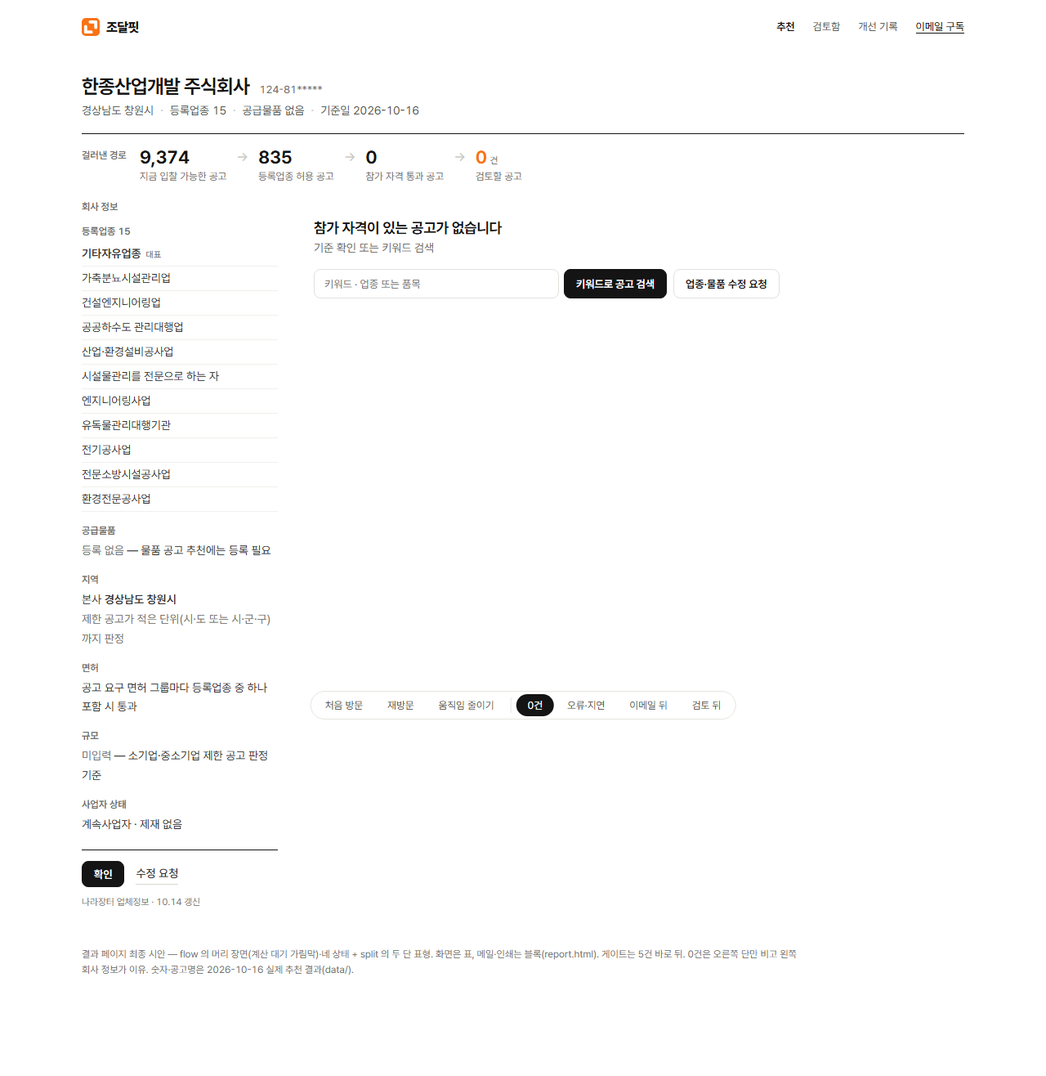
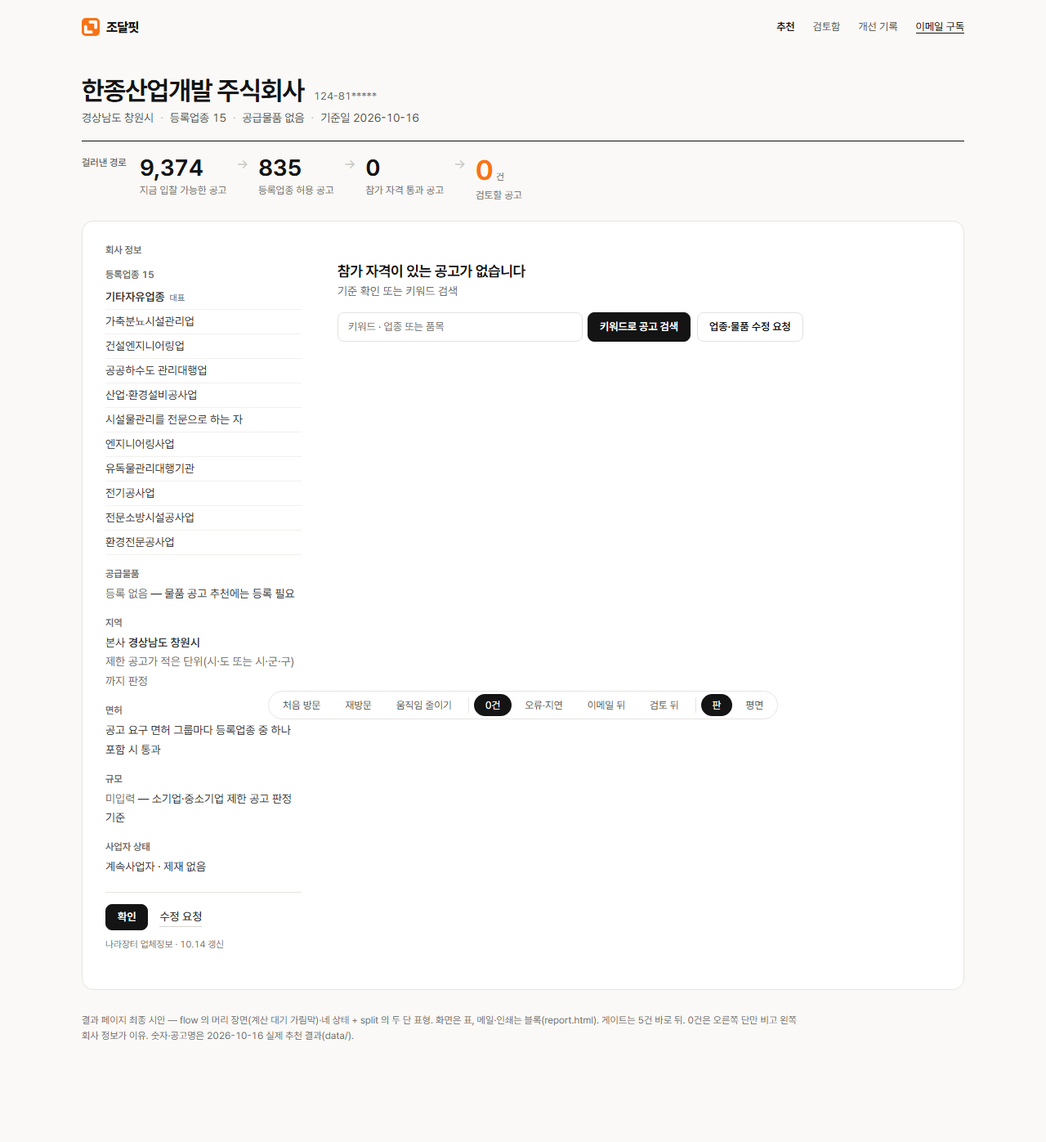
design(results): 판 — 바닥 #faf9f7 + 결과 흰 판, 먹 괘선 하나, 회사 이름 32·경로 숫자 28·12 는 34. 알약 판/평면 비교

diff --git a/docs/design/prototypes/results-final.html b/docs/design/prototypes/results-final.html
@@ -1,4 +1,4 @@
-<!doctype html><html lang="ko"><head><meta charset="utf-8"><meta name="viewport" content="width=device-width,initial-scale=1"><title>조달핏 결과</title><link rel="stylesheet" href="https://cdn.jsdelivr.net/gh/orioncactus/pretendard@v1.3.9/dist/web/variable/pretendardvariable-dynamic-subset.min.css"><style>
+<!doctype html><html lang="ko" class="v-panel"><head><meta charset="utf-8"><meta name="viewport" content="width=device-width,initial-scale=1"><title>조달핏 결과</title><link rel="stylesheet" href="https://cdn.jsdelivr.net/gh/orioncactus/pretendard@v1.3.9/dist/web/variable/pretendardvariable-dynamic-subset.min.css"><style>
 * { box-sizing:border-box } body { margin:0; background:#fff; color:#141414; font-family:"Pretendard Variable",Pretendard,system-ui,sans-serif; font-variant-numeric:tabular-nums; -webkit-font-smoothing:antialiased }
 a { color:inherit; text-decoration:none } .dim { color:#6b6b67 } .mute { color:#8f8f8b } .acc { color:#f97316 }
 .nav { display:flex; align-items:center; justify-content:space-between; padding:22px 0; font-size:13px; color:#55554f } .brand { display:flex; align-items:center; gap:8px; color:#141414; font-weight:700; font-size:14.5px } .brand i { width:7px; height:7px; border-radius:50%; background:#f97316; display:inline-block }
@@ -193,6 +193,14 @@ a { color:inherit; text-decoration:none } .dim { color:#6b6b67 } .mute { color:#
 .tr::before { content:""; position:absolute; left:-16px; top:0; bottom:0; width:2px; background:#f97316; transform:scaleY(0); transform-origin:top; transition:transform .3s cubic-bezier(.3,.7,.2,1) }
 .tr.rvd::before { transform:scaleY(1) }
 @media (prefers-reduced-motion: reduce) { .res, .chain, .tr::before { transition:none !important } }
+/* 판(승우님 "밋밋하다") — 장식이 아니라 바닥과 크기. 따뜻한 회색 바닥 위에 머리·캔버스, 결과는 흰 판 하나. 먹 괘선은 머리 아래 하나만. 회사 이름 32 / 경로 숫자 28 / 마지막 12 는 34 */
+.v-panel, .v-panel body { background:#faf9f7 }
+.v-panel .head h1 { font-size:32px; letter-spacing:-0.035em } .v-panel .chain b { font-size:28px } .v-panel .chain b.acc { font-size:34px } .v-panel .chain .l { font-size:12.5px }
+.v-panel .ttl { background:#faf9f7 }
+.v-panel .res .cols { background:#fff; border:1px solid #e6e4df; border-radius:14px; padding:6px 28px 28px; margin-top:22px }
+.v-panel .side { top:0 } .v-panel .mh, .v-panel .th, .v-panel .gateline, .v-panel .side .act { border-color:#e6e4df }
+.v-panel .err { border-top-color:#e6e4df } .v-panel .ctl { background:#fff }
+@media screen and (max-width:720px){ .v-panel .head h1 { font-size:24px } .v-panel .chain b { font-size:20px } .v-panel .chain b.acc { font-size:24px } .v-panel .res .cols { padding:0 16px 20px; border-radius:12px } .v-panel .tr.rvd::before, .v-panel .tr::before { left:-10px } }
 .gateline { font-size:14.5px; padding:24px 0 } .gateline .dim { font-size:13.5px }
 .zero b { font-size:18px } .zero .dim { font-size:14px } .okline { font-size:14px }
 @media screen and (max-width:720px){ .tr .t { font-size:15px } .tr .sub { font-size:13px } .side { font-size:13.5px } }
@@ -211,7 +219,7 @@ a { color:inherit; text-decoration:none } .dim { color:#6b6b67 } .mute { color:#
   .tr .sub { white-space:normal } .tr .sub .why { display:inline }   /* flow 의 .tr .why{display:none} 은 열용 — 둘째 줄 칩은 보인다 */
   .x, .x.on { padding-left:0 } .rvn { padding-left:0 } .tr.rvd::before { left:-16px }
 }
-</style></head><body><div class="wrap"><div class="nav"><a class="brand" href="#"><svg viewBox="0 0 64 64" width="22" height="22" aria-hidden="true"><rect width="64" height="64" rx="14.08" fill="#f97316"/><path d="M30 14 H50 V34 M14 30 V50 H34" fill="none" stroke="#fff" stroke-width="11" stroke-linecap="round" stroke-linejoin="round"/></svg>조달핏</a><div class="links"><b>추천</b><span>검토함</span><span>개선 기록</span><span class="cta">이메일 구독</span></div></div><div class="head"><h1>한종산업개발 주식회사<small>124-81*****</small></h1><div class="meta"><span>경상남도 창원시</span><span>등록업종 15</span><span>공급물품 없음</span><span>기준일 2026-10-16</span></div></div><div class="stage"><div class="labs"><div class="lab  " data-x="0" style="left:0.000%"><span class="k">지금 입찰 가능한 공고<span class="sub" data-k=" · 마감 90일 이내"> · 마감 90일 이내</span></span><div class="n"><span class="cnt" data-to="9374">0</span><small>건</small></div></div><div class="lab g " data-x="288" style="left:25.714%"><span class="k">등록업종 허용 공고<span class="sub" data-k=" · 전체의 8.9%"> · 전체의 8.9%</span></span><div class="n"><span class="cnt" data-to="835">0</span><small>건</small></div></div><div class="lab g " data-x="576" style="left:51.429%"><span class="k">참가 자격 통과 공고<span class="sub" data-k=" · 면허·지역 45% 통과"> · 면허·지역 45% 통과</span></span><div class="n"><span class="cnt" data-to="372">0</span><small>건</small></div></div><div class="lab g last" data-x="864" style="left:77.143%"><span class="k">검토할 공고<span class="sub" data-k=" · 앞 단계의 3.2%"> · 앞 단계의 3.2%</span></span><div class="n"><span class="cnt" data-to="12">0</span><small>건</small></div></div></div><div class="field"><canvas id="cv" height="392" aria-hidden="true"></canvas><div class="ttl" data-x="272" style="left:1.429%;top:58px;max-width:22.857%">2026년 11월 복대초 및 서원초 학교급식물품(부식) 공동구매 전자입찰 공고</div><div class="ttl" data-x="272" style="left:1.429%;top:108px;max-width:22.857%">2026년 경남 방산 중소기업 생산성향상 지원사업 신규 설비 제작</div><div class="ttl" data-x="272" style="left:1.429%;top:158px;max-width:22.857%">2027학년도 신입생 학교주관 교복 구매 2단계 입찰(규격.가격 분리 동시입찰] 공고</div><div class="ttl" data-x="272" style="left:1.429%;top:208px;max-width:22.857%">2026~2027년 동절기 대비 제설장비(굴착기)임차용역</div><div class="ttl" data-x="272" style="left:1.429%;top:258px;max-width:22.857%">충청북도교육청 청주 방과후돌봄센터 교육용기자재 구매 수의계약 안내공고</div><div class="ttl" data-x="272" style="left:1.429%;top:308px;max-width:22.857%">트리니티팹 화학물질 인허가 취득 용역</div><div class="ttl" data-x="560" style="left:27.143%;top:96px;max-width:22.857%">다솜유 외 2교(다솜초, 다솜중) 신축공사 기본 및 실시설계의 경제성(VE) 검토 용역</div><div class="ttl" data-x="560" style="left:27.143%;top:188px;max-width:22.857%">김 채묘장 전기공사</div><div class="ttl" data-x="560" style="left:27.143%;top:280px;max-width:22.857%">경구고등학교 태정관, 서버실 석면해체제거에 따른 전기 공사 수의견적 제출 안내 공고</div><div class="ttl rsn" data-w="1" data-x="302" style="right:74.286%;top:346px">등록업종 미허용</div><div class="ttl rsn" data-w="2" data-x="590" style="right:48.571%;top:346px">면허·지역 제한 미충족</div><div class="ttl rsn" data-w="3" data-x="878" style="right:22.857%;top:346px">회사와의 유사도 낮음</div></div><div class="chain"><div class="fun"><span class="k">걸러낸 경로</span><div><span class="nl"><b class="">9,374</b></span><span class="l">지금 입찰 가능한 공고</span></div><i>→</i><div><span class="nl"><b class="">835</b></span><span class="l">등록업종 허용 공고</span></div><i>→</i><div><span class="nl"><b class="">372</b></span><span class="l">참가 자격 통과 공고</span></div><i>→</i><div><span class="nl"><b class="acc">12</b><span class=un>건</span></span><span class="l">검토할 공고</span></div></div><div class="tabs"><div><em>공고 12</em><span>사전규격 4</span><span>발주계획 12</span></div><div class="due">이번 주 마감 1건 · 가장 빠른 마감 <span class="d hot">D-4</span> (10.20)</div></div></div></div><div class="err"><span>결과를 불러오지 못했습니다</span><span class="sp"></span><a class="bt" href="#">다시 시도</a></div><div class="res"><div class="cols"><details class="side" open><summary><span class="k">회사 정보 <span class="h o">펼치기</span><span class="h c">접기</span></span></summary><div class="sec"><span class="k">등록업종 15</span><ul><li class="rep">기타자유업종</li><li>가축분뇨시설관리업</li><li>건설엔지니어링업</li><li>공공하수도 관리대행업</li><li>산업·환경설비공사업</li><li>시설물관리를 전문으로 하는 자</li><li>엔지니어링사업</li><li>유독물관리대행기관</li><li>전기공사업</li><li>전문소방시설공사업</li><li>환경전문공사업</li></ul></div><div class="sec"><span class="k">공급물품</span><div class="txt"><span class="dim">등록 없음</span> — 물품 공고 추천에는 등록 필요</div></div><div class="sec"><span class="k">지역</span><div class="txt">본사 <b>경상남도 창원시</b><br><span class="dim">제한 공고가 적은 단위(시·도 또는 시·군·구)까지 판정</span></div></div><div class="sec"><span class="k">면허</span><div class="txt">공고 요구 면허 그룹마다 등록업종 중 하나 포함 시 통과</div></div><div class="sec"><span class="k">규모</span><div class="txt"><span class="dim">미입력</span> — 소기업·중소기업 제한 공고 판정 기준</div></div><div class="sec"><span class="k">사업자 상태</span><div class="txt">계속사업자 · 제재 없음</div></div><div class="act"><a class="bt dark" href="#">확인</a><a class="bt txt" href="#"><u>수정 요청</u></a></div><span class="mute">나라장터 업체정보 · 10.14 갱신</span></details><div class="main"><div class="mh"><span class="k"><b>검토할 공고 12건</b>적합 순</span></div><div class="okline"><b>이메일 등록 완료</b> · 전체 결과 공개</div><div class="zero"><b>참가 자격이 있는 공고가 없습니다</b><span class="dim">기준 확인 또는 키워드 검색</span><div class="acts"><span class="in"><span>키워드 · 업종 또는 품목</span><span class="bt dark">키워드로 공고 검색</span></span><a class="bt" href="#">업종·물품 수정 요청</a></div></div><div class="sheet"><div class="th"><span>#</span><span>공고 · 발주기관 · 근거</span><span class="r">마감</span><span class="r">추정가</span></div><div class="tr" data-no="R26BK01773124"><span class="no">01</span><span><span class="t">송탄정수장 공업용수공급 시설공사(1공구)</span><span class="sub">경기도 평택시 상하수도사업소<span class="why">재출현 기관</span></span></span><span class="r d ">D-13<small>10.29</small></span><span class="r">50.3억</span></div><div class="x on"><div class="xi"><div><span class="k">참가 자격</span><ul><li class="ok">면허 — 제한 없음</li><li class="ok">지역 — 제한 없음</li><li class="todo">규모 — 중소기업 확인서 요구 여부는 문서 조건에서, 회사 규모 미입력</li></ul></div><div><span class="k">추천 근거</span><ul><li>경기도 평택시 상하수도사업소 — 과거 거래 이력 있음</li><li>추정가가 회사 평균 수주가의 1.08배 — 유사한 규모</li><li>공고 내용과 회사 업종 설명 유사도 73%</li></ul></div><div class="acts"><a class="bt dark" href="https://www.g2b.go.kr/link/PNPE027_01/single/?bidPbancNo=R26BK01773124&amp;bidPbancOrd=000">나라장터 원문</a><a class="bt rv" href="#">검토</a></div></div></div><div class="tr" data-no="R26BK01771325"><span class="no">02</span><span><span class="t">중랑물재생센터 제1처리장 관리대행</span><span class="sub">서울특별시 물재생센터 중랑물재생센터<span class="why">업종·물품 일치</span></span></span><span class="r d ">D-40<small>11.25</small></span><span class="r">61.1억</span></div><div class="x "><div class="xi"><div><span class="k">참가 자격</span><ul><li class="ok">면허 — 제한 없음</li><li class="ok">지역 — 제한 없음</li><li class="todo">규모 — 중소기업 확인서 요구 여부는 문서 조건에서, 회사 규모 미입력</li></ul></div><div><span class="k">추천 근거</span><ul><li>추정가가 회사 평균 수주가의 1.31배 — 유사한 규모</li><li>등록업종 표현이 허용업종과 중복 — 000㎥, 10, 공공하수도</li><li>공고 내용과 회사 업종 설명 유사도 74%</li></ul></div><div class="acts"><a class="bt dark" href="https://www.g2b.go.kr/link/PNPE027_01/single/?bidPbancNo=R26BK01771325&amp;bidPbancOrd=001">나라장터 원문</a><a class="bt rv" href="#">검토</a></div></div></div><div class="tr" data-no="R26BK01772889"><span class="no">03</span><span><span class="t">송탄정수장 공업용수공급 시설공사(2공구)</span><span class="sub">경기도 평택시 상하수도사업소<span class="why">재출현 기관</span></span></span><span class="r d ">D-13<small>10.29</small></span><span class="r">76.9억</span></div><div class="x "><div class="xi"><div><span class="k">참가 자격</span><ul><li class="ok">면허 — 제한 없음</li><li class="ok">지역 — 제한 없음</li><li class="todo">규모 — 중소기업 확인서 요구 여부는 문서 조건에서, 회사 규모 미입력</li></ul></div><div><span class="k">추천 근거</span><ul><li>경기도 평택시 상하수도사업소 — 과거 거래 이력 있음</li><li>공고 내용과 회사 업종 설명 유사도 75%</li></ul></div><div class="acts"><a class="bt dark" href="https://www.g2b.go.kr/link/PNPE027_01/single/?bidPbancNo=R26BK01772889&amp;bidPbancOrd=000">나라장터 원문</a><a class="bt rv" href="#">검토</a></div></div></div><div class="tr" data-no="R26BK01751505"><span class="no">04</span><span><span class="t">국가소유(여수 4단계) 공공폐수처리시설 관리대행</span><span class="sub">한국환경공단<span class="why">업종·물품 일치</span></span></span><span class="r d ">D-26<small>11.11</small></span><span class="r">41.2억</span></div><div class="x "><div class="xi"><div><span class="k">참가 자격</span><ul><li class="ok">면허 — 충족</li><li class="ok">지역 — 제한 없음</li><li class="todo">규모 — 중소기업 확인서 요구 여부는 문서 조건에서, 회사 규모 미입력</li></ul></div><div><span class="k">추천 근거</span><ul><li>추정가가 회사 평균 수주가의 0.88배 — 유사한 규모</li><li>등록업종 표현이 허용업종과 중복 — 000㎥, 10, 공공하수도</li><li>공고 내용과 회사 업종 설명 유사도 74%</li></ul></div><div class="acts"><a class="bt dark" href="https://www.g2b.go.kr/link/PNPE027_01/single/?bidPbancNo=R26BK01751505&amp;bidPbancOrd=000">나라장터 원문</a><a class="bt rv" href="#">검토</a></div></div></div><div class="tr" data-no="R26BK01771347"><span class="no">05</span><span><span class="t">중랑물재생센터 총인처리시설 관리대행</span><span class="sub">서울특별시 물재생센터 중랑물재생센터<span class="why">업종·물품 일치</span></span></span><span class="r d ">D-41<small>11.26</small></span><span class="r">36.8억</span></div><div class="x "><div class="xi"><div><span class="k">참가 자격</span><ul><li class="ok">면허 — 충족</li><li class="ok">지역 — 제한 없음</li><li class="todo">규모 — 중소기업 확인서 요구 여부는 문서 조건에서, 회사 규모 미입력</li></ul></div><div><span class="k">추천 근거</span><ul><li>추정가가 회사 평균 수주가의 0.79배 — 유사한 규모</li><li>등록업종 표현이 허용업종과 중복 — 000㎥, 10, 공공하수도</li><li>공고 내용과 회사 업종 설명 유사도 74%</li></ul></div><div class="acts"><a class="bt dark" href="https://www.g2b.go.kr/link/PNPE027_01/single/?bidPbancNo=R26BK01771347&amp;bidPbancOrd=000">나라장터 원문</a><a class="bt rv" href="#">검토</a></div></div></div><div class="gateline"><b>나머지 7건은 이메일 등록 후 공개</b><span class="dim">상위 5건은 등록 없이 공개 · 비밀번호 없음</span><span class="sp"></span><span class="in"><span>you@company.co.kr</span><span class="bt dark">이메일 등록</span></span></div><div class="fade"><div class="tr" data-no="R26BK01771266"><span class="no">06</span><span><span class="t">중랑물재생센터 일부시설물 관리대행</span><span class="sub">서울특별시 물재생센터 중랑물재생센터<span class="why">업종·물품 일치</span></span></span><span class="r d ">D-39<small>11.24</small></span><span class="r">199.7억</span></div><div class="x "><div class="xi"><div><span class="k">참가 자격</span><ul><li class="ok">면허 — 제한 없음</li><li class="ok">지역 — 제한 없음</li><li class="todo">규모 — 중소기업 확인서 요구 여부는 문서 조건에서, 회사 규모 미입력</li></ul></div><div><span class="k">추천 근거</span><ul><li>등록업종 표현이 허용업종과 중복 — 000㎥, 10, 공공하수도</li><li>공고 내용과 회사 업종 설명 유사도 75%</li></ul></div><div class="acts"><a class="bt dark" href="https://www.g2b.go.kr/link/PNPE027_01/single/?bidPbancNo=R26BK01771266&amp;bidPbancOrd=001">나라장터 원문</a><a class="bt rv" href="#">검토</a></div></div></div><div class="tr" data-no="R26BK01769297"><span class="no">07</span><span><span class="t">양산하수처리장 악취저감사업 실시설계용역</span><span class="sub">경상남도 양산시 상하수도사업소<span class="why">지역 매칭</span></span></span><span class="r d hot">D-4<small>10.20</small></span><span class="r">5,808만</span></div><div class="x "><div class="xi"><div><span class="k">참가 자격</span><ul><li class="ok">면허 — 충족</li><li class="ok">지역 — 자격 충족</li><li class="todo">규모 — 중소기업 확인서 요구 여부는 문서 조건에서, 회사 규모 미입력</li></ul></div><div><span class="k">추천 근거</span><ul><li>해당 기관 최근 낙찰의 50%를 같은 회사가 수주</li><li>공고의 지역 제한이 본사 소재지 경상남도와 일치</li><li>추정가가 회사 평균 수주가의 0.01배 — 규모 차이 큼</li><li>등록업종 표현이 허용업종과 중복 — 건설엔지니어링업(설계, 사업관리, 설계등용역</li><li>공고 내용과 회사 업종 설명 유사도 68%</li></ul></div><div class="acts"><a class="bt dark" href="https://www.g2b.go.kr/link/PNPE027_01/single/?bidPbancNo=R26BK01769297&amp;bidPbancOrd=000">나라장터 원문</a><a class="bt rv" href="#">검토</a></div></div></div><div class="tr" data-no="R26BK01772155"><span class="no">08</span><span><span class="t">안양시 광역공공하수처리시설 관리대행 용역(2027년~2029년)</span><span class="sub">경기도 안양시<span class="why">업종·물품 일치</span></span></span><span class="r d ">D-33<small>11.18</small></span><span class="r">650.7억</span></div><div class="x "><div class="xi"><div><span class="k">참가 자격</span><ul><li class="ok">면허 — 제한 없음</li><li class="ok">지역 — 제한 없음</li><li class="todo">규모 — 중소기업 확인서 요구 여부는 문서 조건에서, 회사 규모 미입력</li></ul></div><div><span class="k">추천 근거</span><ul><li>추정가가 회사 평균 수주가의 13.92배 — 규모 차이 큼</li><li>등록업종 표현이 허용업종과 중복 — 000㎥, 10, 공공하수도</li><li>공고 내용과 회사 업종 설명 유사도 74%</li></ul></div><div class="acts"><a class="bt dark" href="https://www.g2b.go.kr/link/PNPE027_01/single/?bidPbancNo=R26BK01772155&amp;bidPbancOrd=000">나라장터 원문</a><a class="bt rv" href="#">검토</a></div></div></div><div class="tr" data-no="R26BK01752112"><span class="no">09</span><span><span class="t">신길동 일원 하수관로 정비공사(1단계) 건설사업관리용역</span><span class="sub">경기도 안산시 상하수도사업소<span class="why">업종·물품 일치</span></span></span><span class="r d ">D-12<small>10.28</small></span><span class="r">13.5억</span></div><div class="x "><div class="xi"><div><span class="k">참가 자격</span><ul><li class="ok">면허 — 충족</li><li class="ok">지역 — 제한 없음</li><li class="todo">규모 — 중소기업 확인서 요구 여부는 문서 조건에서, 회사 규모 미입력</li></ul></div><div><span class="k">추천 근거</span><ul><li>등록업종 표현이 허용업종과 중복 — 건설엔지니어링업(설계, 사업관리</li><li>공고 내용과 회사 업종 설명 유사도 72%</li></ul></div><div class="acts"><a class="bt dark" href="https://www.g2b.go.kr/link/PNPE027_01/single/?bidPbancNo=R26BK01752112&amp;bidPbancOrd=000">나라장터 원문</a><a class="bt rv" href="#">검토</a></div></div></div><div class="tr" data-no="R26BK01740690"><span class="no">10</span><span><span class="t">국가 핵심광물 전용 비축기지 구축사업 건설사업관리용역(감독권한대행)</span><span class="sub">한국광해광업공단<span class="why">업종·물품 일치</span></span></span><span class="r d ">D-20<small>11.05</small></span><span class="r">62.5억</span></div><div class="x "><div class="xi"><div><span class="k">참가 자격</span><ul><li class="ok">면허 — 충족</li><li class="ok">지역 — 제한 없음</li><li class="todo">규모 — 중소기업 확인서 요구 여부는 문서 조건에서, 회사 규모 미입력</li></ul></div><div><span class="k">추천 근거</span><ul><li>추정가가 회사 평균 수주가의 1.34배 — 유사한 규모</li><li>등록업종 표현이 허용업종과 중복 — 건설엔지니어링업(설계, 사업관리</li><li>공고 내용과 회사 업종 설명 유사도 69%</li></ul></div><div class="acts"><a class="bt dark" href="https://www.g2b.go.kr/link/PNPE027_01/single/?bidPbancNo=R26BK01740690&amp;bidPbancOrd=000">나라장터 원문</a><a class="bt rv" href="#">검토</a></div></div></div><div class="tr" data-no="R26BK01751860"><span class="no">11</span><span><span class="t">상활 소규모 공공하수처리시설 설치공사 외 3개소 통합 건설사업관리용역</span><span class="sub">경기도 여주시 하수사업소<span class="why">업종·물품 일치</span></span></span><span class="r d ">D-12<small>10.28</small></span><span class="r">26.5억</span></div><div class="x "><div class="xi"><div><span class="k">참가 자격</span><ul><li class="ok">면허 — 충족</li><li class="ok">지역 — 제한 없음</li><li class="todo">규모 — 중소기업 확인서 요구 여부는 문서 조건에서, 회사 규모 미입력</li></ul></div><div><span class="k">추천 근거</span><ul><li>등록업종 표현이 허용업종과 중복 — 건설엔지니어링업(설계, 사업관리</li><li>공고 내용과 회사 업종 설명 유사도 71%</li></ul></div><div class="acts"><a class="bt dark" href="https://www.g2b.go.kr/link/PNPE027_01/single/?bidPbancNo=R26BK01751860&amp;bidPbancOrd=000">나라장터 원문</a><a class="bt rv" href="#">검토</a></div></div></div><div class="tr" data-no="R26BK01718563"><span class="no">12</span><span><span class="t">성남낙생 A-2BL 아파트 건설공사 시공단계 감독권한대행 등 건설사업관리용역</span><span class="sub">한국토지주택공사<span class="why">업종·물품 일치</span></span></span><span class="r d ">D-11<small>10.27</small></span><span class="r">144억</span></div><div class="x "><div class="xi"><div><span class="k">참가 자격</span><ul><li class="ok">면허 — 충족</li><li class="ok">지역 — 제한 없음</li><li class="todo">규모 — 중소기업 확인서 요구 여부는 문서 조건에서, 회사 규모 미입력</li></ul></div><div><span class="k">추천 근거</span><ul><li>등록업종 표현이 허용업종과 중복 — 건설엔지니어링업(설계, 사업관리</li><li>공고 내용과 회사 업종 설명 유사도 70%</li></ul></div><div class="acts"><a class="bt dark" href="https://www.g2b.go.kr/link/PNPE027_01/single/?bidPbancNo=R26BK01718563&amp;bidPbancOrd=001">나라장터 원문</a><a class="bt rv" href="#">검토</a></div></div></div></div></div></div></div></div><div class="foot">결과 페이지 최종 시안 — flow 의 머리 장면(계산 대기 가림막)·네 상태 + split 의 두 단 표형. 화면은 표, 메일·인쇄는 블록(report.html). 게이트는 5건 바로 뒤. 0건은 오른쪽 단만 비고 왼쪽 회사 정보가 이유. 숫자·공고명은 2026-10-16 실제 추천 결과(data/).</div></div><div class="ctl"><span data-run="full">처음 방문</span><span data-run="fast">재방문</span><span data-run="still">움직임 줄이기</span><i></i><span data-st="zero">0건</span><span data-st="err">오류·지연</span><span data-st="email">이메일 뒤</span><span data-st="reviewed">검토 뒤</span></div><script type="application/json" id="cfg">{"W": 1120, "H": 392, "CY": 196, "XS": [0, 288, 576, 864], "HH": [180, 160, 150, 100], "FAN_X": 936, "FAN_SP": 150, "CONV": 44, "PRESS": 44, "CNT": [9374, 835, 372, 12]}</script><script>
+</style></head><body><div class="wrap"><div class="nav"><a class="brand" href="#"><svg viewBox="0 0 64 64" width="22" height="22" aria-hidden="true"><rect width="64" height="64" rx="14.08" fill="#f97316"/><path d="M30 14 H50 V34 M14 30 V50 H34" fill="none" stroke="#fff" stroke-width="11" stroke-linecap="round" stroke-linejoin="round"/></svg>조달핏</a><div class="links"><b>추천</b><span>검토함</span><span>개선 기록</span><span class="cta">이메일 구독</span></div></div><div class="head"><h1>한종산업개발 주식회사<small>124-81*****</small></h1><div class="meta"><span>경상남도 창원시</span><span>등록업종 15</span><span>공급물품 없음</span><span>기준일 2026-10-16</span></div></div><div class="stage"><div class="labs"><div class="lab  " data-x="0" style="left:0.000%"><span class="k">지금 입찰 가능한 공고<span class="sub" data-k=" · 마감 90일 이내"> · 마감 90일 이내</span></span><div class="n"><span class="cnt" data-to="9374">0</span><small>건</small></div></div><div class="lab g " data-x="288" style="left:25.714%"><span class="k">등록업종 허용 공고<span class="sub" data-k=" · 전체의 8.9%"> · 전체의 8.9%</span></span><div class="n"><span class="cnt" data-to="835">0</span><small>건</small></div></div><div class="lab g " data-x="576" style="left:51.429%"><span class="k">참가 자격 통과 공고<span class="sub" data-k=" · 면허·지역 45% 통과"> · 면허·지역 45% 통과</span></span><div class="n"><span class="cnt" data-to="372">0</span><small>건</small></div></div><div class="lab g last" data-x="864" style="left:77.143%"><span class="k">검토할 공고<span class="sub" data-k=" · 앞 단계의 3.2%"> · 앞 단계의 3.2%</span></span><div class="n"><span class="cnt" data-to="12">0</span><small>건</small></div></div></div><div class="field"><canvas id="cv" height="392" aria-hidden="true"></canvas><div class="ttl" data-x="272" style="left:1.429%;top:58px;max-width:22.857%">2026년 11월 복대초 및 서원초 학교급식물품(부식) 공동구매 전자입찰 공고</div><div class="ttl" data-x="272" style="left:1.429%;top:108px;max-width:22.857%">2026년 경남 방산 중소기업 생산성향상 지원사업 신규 설비 제작</div><div class="ttl" data-x="272" style="left:1.429%;top:158px;max-width:22.857%">2027학년도 신입생 학교주관 교복 구매 2단계 입찰(규격.가격 분리 동시입찰] 공고</div><div class="ttl" data-x="272" style="left:1.429%;top:208px;max-width:22.857%">2026~2027년 동절기 대비 제설장비(굴착기)임차용역</div><div class="ttl" data-x="272" style="left:1.429%;top:258px;max-width:22.857%">충청북도교육청 청주 방과후돌봄센터 교육용기자재 구매 수의계약 안내공고</div><div class="ttl" data-x="272" style="left:1.429%;top:308px;max-width:22.857%">트리니티팹 화학물질 인허가 취득 용역</div><div class="ttl" data-x="560" style="left:27.143%;top:96px;max-width:22.857%">다솜유 외 2교(다솜초, 다솜중) 신축공사 기본 및 실시설계의 경제성(VE) 검토 용역</div><div class="ttl" data-x="560" style="left:27.143%;top:188px;max-width:22.857%">김 채묘장 전기공사</div><div class="ttl" data-x="560" style="left:27.143%;top:280px;max-width:22.857%">경구고등학교 태정관, 서버실 석면해체제거에 따른 전기 공사 수의견적 제출 안내 공고</div><div class="ttl rsn" data-w="1" data-x="302" style="right:74.286%;top:346px">등록업종 미허용</div><div class="ttl rsn" data-w="2" data-x="590" style="right:48.571%;top:346px">면허·지역 제한 미충족</div><div class="ttl rsn" data-w="3" data-x="878" style="right:22.857%;top:346px">회사와의 유사도 낮음</div></div><div class="chain"><div class="fun"><span class="k">걸러낸 경로</span><div><span class="nl"><b class="">9,374</b></span><span class="l">지금 입찰 가능한 공고</span></div><i>→</i><div><span class="nl"><b class="">835</b></span><span class="l">등록업종 허용 공고</span></div><i>→</i><div><span class="nl"><b class="">372</b></span><span class="l">참가 자격 통과 공고</span></div><i>→</i><div><span class="nl"><b class="acc">12</b><span class=un>건</span></span><span class="l">검토할 공고</span></div></div><div class="tabs"><div><em>공고 12</em><span>사전규격 4</span><span>발주계획 12</span></div><div class="due">이번 주 마감 1건 · 가장 빠른 마감 <span class="d hot">D-4</span> (10.20)</div></div></div></div><div class="err"><span>결과를 불러오지 못했습니다</span><span class="sp"></span><a class="bt" href="#">다시 시도</a></div><div class="res"><div class="cols"><details class="side" open><summary><span class="k">회사 정보 <span class="h o">펼치기</span><span class="h c">접기</span></span></summary><div class="sec"><span class="k">등록업종 15</span><ul><li class="rep">기타자유업종</li><li>가축분뇨시설관리업</li><li>건설엔지니어링업</li><li>공공하수도 관리대행업</li><li>산업·환경설비공사업</li><li>시설물관리를 전문으로 하는 자</li><li>엔지니어링사업</li><li>유독물관리대행기관</li><li>전기공사업</li><li>전문소방시설공사업</li><li>환경전문공사업</li></ul></div><div class="sec"><span class="k">공급물품</span><div class="txt"><span class="dim">등록 없음</span> — 물품 공고 추천에는 등록 필요</div></div><div class="sec"><span class="k">지역</span><div class="txt">본사 <b>경상남도 창원시</b><br><span class="dim">제한 공고가 적은 단위(시·도 또는 시·군·구)까지 판정</span></div></div><div class="sec"><span class="k">면허</span><div class="txt">공고 요구 면허 그룹마다 등록업종 중 하나 포함 시 통과</div></div><div class="sec"><span class="k">규모</span><div class="txt"><span class="dim">미입력</span> — 소기업·중소기업 제한 공고 판정 기준</div></div><div class="sec"><span class="k">사업자 상태</span><div class="txt">계속사업자 · 제재 없음</div></div><div class="act"><a class="bt dark" href="#">확인</a><a class="bt txt" href="#"><u>수정 요청</u></a></div><span class="mute">나라장터 업체정보 · 10.14 갱신</span></details><div class="main"><div class="mh"><span class="k"><b>검토할 공고 12건</b>적합 순</span></div><div class="okline"><b>이메일 등록 완료</b> · 전체 결과 공개</div><div class="zero"><b>참가 자격이 있는 공고가 없습니다</b><span class="dim">기준 확인 또는 키워드 검색</span><div class="acts"><span class="in"><span>키워드 · 업종 또는 품목</span><span class="bt dark">키워드로 공고 검색</span></span><a class="bt" href="#">업종·물품 수정 요청</a></div></div><div class="sheet"><div class="th"><span>#</span><span>공고 · 발주기관 · 근거</span><span class="r">마감</span><span class="r">추정가</span></div><div class="tr" data-no="R26BK01773124"><span class="no">01</span><span><span class="t">송탄정수장 공업용수공급 시설공사(1공구)</span><span class="sub">경기도 평택시 상하수도사업소<span class="why">재출현 기관</span></span></span><span class="r d ">D-13<small>10.29</small></span><span class="r">50.3억</span></div><div class="x on"><div class="xi"><div><span class="k">참가 자격</span><ul><li class="ok">면허 — 제한 없음</li><li class="ok">지역 — 제한 없음</li><li class="todo">규모 — 중소기업 확인서 요구 여부는 문서 조건에서, 회사 규모 미입력</li></ul></div><div><span class="k">추천 근거</span><ul><li>경기도 평택시 상하수도사업소 — 과거 거래 이력 있음</li><li>추정가가 회사 평균 수주가의 1.08배 — 유사한 규모</li><li>공고 내용과 회사 업종 설명 유사도 73%</li></ul></div><div class="acts"><a class="bt dark" href="https://www.g2b.go.kr/link/PNPE027_01/single/?bidPbancNo=R26BK01773124&amp;bidPbancOrd=000">나라장터 원문</a><a class="bt rv" href="#">검토</a></div></div></div><div class="tr" data-no="R26BK01771325"><span class="no">02</span><span><span class="t">중랑물재생센터 제1처리장 관리대행</span><span class="sub">서울특별시 물재생센터 중랑물재생센터<span class="why">업종·물품 일치</span></span></span><span class="r d ">D-40<small>11.25</small></span><span class="r">61.1억</span></div><div class="x "><div class="xi"><div><span class="k">참가 자격</span><ul><li class="ok">면허 — 제한 없음</li><li class="ok">지역 — 제한 없음</li><li class="todo">규모 — 중소기업 확인서 요구 여부는 문서 조건에서, 회사 규모 미입력</li></ul></div><div><span class="k">추천 근거</span><ul><li>추정가가 회사 평균 수주가의 1.31배 — 유사한 규모</li><li>등록업종 표현이 허용업종과 중복 — 000㎥, 10, 공공하수도</li><li>공고 내용과 회사 업종 설명 유사도 74%</li></ul></div><div class="acts"><a class="bt dark" href="https://www.g2b.go.kr/link/PNPE027_01/single/?bidPbancNo=R26BK01771325&amp;bidPbancOrd=001">나라장터 원문</a><a class="bt rv" href="#">검토</a></div></div></div><div class="tr" data-no="R26BK01772889"><span class="no">03</span><span><span class="t">송탄정수장 공업용수공급 시설공사(2공구)</span><span class="sub">경기도 평택시 상하수도사업소<span class="why">재출현 기관</span></span></span><span class="r d ">D-13<small>10.29</small></span><span class="r">76.9억</span></div><div class="x "><div class="xi"><div><span class="k">참가 자격</span><ul><li class="ok">면허 — 제한 없음</li><li class="ok">지역 — 제한 없음</li><li class="todo">규모 — 중소기업 확인서 요구 여부는 문서 조건에서, 회사 규모 미입력</li></ul></div><div><span class="k">추천 근거</span><ul><li>경기도 평택시 상하수도사업소 — 과거 거래 이력 있음</li><li>공고 내용과 회사 업종 설명 유사도 75%</li></ul></div><div class="acts"><a class="bt dark" href="https://www.g2b.go.kr/link/PNPE027_01/single/?bidPbancNo=R26BK01772889&amp;bidPbancOrd=000">나라장터 원문</a><a class="bt rv" href="#">검토</a></div></div></div><div class="tr" data-no="R26BK01751505"><span class="no">04</span><span><span class="t">국가소유(여수 4단계) 공공폐수처리시설 관리대행</span><span class="sub">한국환경공단<span class="why">업종·물품 일치</span></span></span><span class="r d ">D-26<small>11.11</small></span><span class="r">41.2억</span></div><div class="x "><div class="xi"><div><span class="k">참가 자격</span><ul><li class="ok">면허 — 충족</li><li class="ok">지역 — 제한 없음</li><li class="todo">규모 — 중소기업 확인서 요구 여부는 문서 조건에서, 회사 규모 미입력</li></ul></div><div><span class="k">추천 근거</span><ul><li>추정가가 회사 평균 수주가의 0.88배 — 유사한 규모</li><li>등록업종 표현이 허용업종과 중복 — 000㎥, 10, 공공하수도</li><li>공고 내용과 회사 업종 설명 유사도 74%</li></ul></div><div class="acts"><a class="bt dark" href="https://www.g2b.go.kr/link/PNPE027_01/single/?bidPbancNo=R26BK01751505&amp;bidPbancOrd=000">나라장터 원문</a><a class="bt rv" href="#">검토</a></div></div></div><div class="tr" data-no="R26BK01771347"><span class="no">05</span><span><span class="t">중랑물재생센터 총인처리시설 관리대행</span><span class="sub">서울특별시 물재생센터 중랑물재생센터<span class="why">업종·물품 일치</span></span></span><span class="r d ">D-41<small>11.26</small></span><span class="r">36.8억</span></div><div class="x "><div class="xi"><div><span class="k">참가 자격</span><ul><li class="ok">면허 — 충족</li><li class="ok">지역 — 제한 없음</li><li class="todo">규모 — 중소기업 확인서 요구 여부는 문서 조건에서, 회사 규모 미입력</li></ul></div><div><span class="k">추천 근거</span><ul><li>추정가가 회사 평균 수주가의 0.79배 — 유사한 규모</li><li>등록업종 표현이 허용업종과 중복 — 000㎥, 10, 공공하수도</li><li>공고 내용과 회사 업종 설명 유사도 74%</li></ul></div><div class="acts"><a class="bt dark" href="https://www.g2b.go.kr/link/PNPE027_01/single/?bidPbancNo=R26BK01771347&amp;bidPbancOrd=000">나라장터 원문</a><a class="bt rv" href="#">검토</a></div></div></div><div class="gateline"><b>나머지 7건은 이메일 등록 후 공개</b><span class="dim">상위 5건은 등록 없이 공개 · 비밀번호 없음</span><span class="sp"></span><span class="in"><span>you@company.co.kr</span><span class="bt dark">이메일 등록</span></span></div><div class="fade"><div class="tr" data-no="R26BK01771266"><span class="no">06</span><span><span class="t">중랑물재생센터 일부시설물 관리대행</span><span class="sub">서울특별시 물재생센터 중랑물재생센터<span class="why">업종·물품 일치</span></span></span><span class="r d ">D-39<small>11.24</small></span><span class="r">199.7억</span></div><div class="x "><div class="xi"><div><span class="k">참가 자격</span><ul><li class="ok">면허 — 제한 없음</li><li class="ok">지역 — 제한 없음</li><li class="todo">규모 — 중소기업 확인서 요구 여부는 문서 조건에서, 회사 규모 미입력</li></ul></div><div><span class="k">추천 근거</span><ul><li>등록업종 표현이 허용업종과 중복 — 000㎥, 10, 공공하수도</li><li>공고 내용과 회사 업종 설명 유사도 75%</li></ul></div><div class="acts"><a class="bt dark" href="https://www.g2b.go.kr/link/PNPE027_01/single/?bidPbancNo=R26BK01771266&amp;bidPbancOrd=001">나라장터 원문</a><a class="bt rv" href="#">검토</a></div></div></div><div class="tr" data-no="R26BK01769297"><span class="no">07</span><span><span class="t">양산하수처리장 악취저감사업 실시설계용역</span><span class="sub">경상남도 양산시 상하수도사업소<span class="why">지역 매칭</span></span></span><span class="r d hot">D-4<small>10.20</small></span><span class="r">5,808만</span></div><div class="x "><div class="xi"><div><span class="k">참가 자격</span><ul><li class="ok">면허 — 충족</li><li class="ok">지역 — 자격 충족</li><li class="todo">규모 — 중소기업 확인서 요구 여부는 문서 조건에서, 회사 규모 미입력</li></ul></div><div><span class="k">추천 근거</span><ul><li>해당 기관 최근 낙찰의 50%를 같은 회사가 수주</li><li>공고의 지역 제한이 본사 소재지 경상남도와 일치</li><li>추정가가 회사 평균 수주가의 0.01배 — 규모 차이 큼</li><li>등록업종 표현이 허용업종과 중복 — 건설엔지니어링업(설계, 사업관리, 설계등용역</li><li>공고 내용과 회사 업종 설명 유사도 68%</li></ul></div><div class="acts"><a class="bt dark" href="https://www.g2b.go.kr/link/PNPE027_01/single/?bidPbancNo=R26BK01769297&amp;bidPbancOrd=000">나라장터 원문</a><a class="bt rv" href="#">검토</a></div></div></div><div class="tr" data-no="R26BK01772155"><span class="no">08</span><span><span class="t">안양시 광역공공하수처리시설 관리대행 용역(2027년~2029년)</span><span class="sub">경기도 안양시<span class="why">업종·물품 일치</span></span></span><span class="r d ">D-33<small>11.18</small></span><span class="r">650.7억</span></div><div class="x "><div class="xi"><div><span class="k">참가 자격</span><ul><li class="ok">면허 — 제한 없음</li><li class="ok">지역 — 제한 없음</li><li class="todo">규모 — 중소기업 확인서 요구 여부는 문서 조건에서, 회사 규모 미입력</li></ul></div><div><span class="k">추천 근거</span><ul><li>추정가가 회사 평균 수주가의 13.92배 — 규모 차이 큼</li><li>등록업종 표현이 허용업종과 중복 — 000㎥, 10, 공공하수도</li><li>공고 내용과 회사 업종 설명 유사도 74%</li></ul></div><div class="acts"><a class="bt dark" href="https://www.g2b.go.kr/link/PNPE027_01/single/?bidPbancNo=R26BK01772155&amp;bidPbancOrd=000">나라장터 원문</a><a class="bt rv" href="#">검토</a></div></div></div><div class="tr" data-no="R26BK01752112"><span class="no">09</span><span><span class="t">신길동 일원 하수관로 정비공사(1단계) 건설사업관리용역</span><span class="sub">경기도 안산시 상하수도사업소<span class="why">업종·물품 일치</span></span></span><span class="r d ">D-12<small>10.28</small></span><span class="r">13.5억</span></div><div class="x "><div class="xi"><div><span class="k">참가 자격</span><ul><li class="ok">면허 — 충족</li><li class="ok">지역 — 제한 없음</li><li class="todo">규모 — 중소기업 확인서 요구 여부는 문서 조건에서, 회사 규모 미입력</li></ul></div><div><span class="k">추천 근거</span><ul><li>등록업종 표현이 허용업종과 중복 — 건설엔지니어링업(설계, 사업관리</li><li>공고 내용과 회사 업종 설명 유사도 72%</li></ul></div><div class="acts"><a class="bt dark" href="https://www.g2b.go.kr/link/PNPE027_01/single/?bidPbancNo=R26BK01752112&amp;bidPbancOrd=000">나라장터 원문</a><a class="bt rv" href="#">검토</a></div></div></div><div class="tr" data-no="R26BK01740690"><span class="no">10</span><span><span class="t">국가 핵심광물 전용 비축기지 구축사업 건설사업관리용역(감독권한대행)</span><span class="sub">한국광해광업공단<span class="why">업종·물품 일치</span></span></span><span class="r d ">D-20<small>11.05</small></span><span class="r">62.5억</span></div><div class="x "><div class="xi"><div><span class="k">참가 자격</span><ul><li class="ok">면허 — 충족</li><li class="ok">지역 — 제한 없음</li><li class="todo">규모 — 중소기업 확인서 요구 여부는 문서 조건에서, 회사 규모 미입력</li></ul></div><div><span class="k">추천 근거</span><ul><li>추정가가 회사 평균 수주가의 1.34배 — 유사한 규모</li><li>등록업종 표현이 허용업종과 중복 — 건설엔지니어링업(설계, 사업관리</li><li>공고 내용과 회사 업종 설명 유사도 69%</li></ul></div><div class="acts"><a class="bt dark" href="https://www.g2b.go.kr/link/PNPE027_01/single/?bidPbancNo=R26BK01740690&amp;bidPbancOrd=000">나라장터 원문</a><a class="bt rv" href="#">검토</a></div></div></div><div class="tr" data-no="R26BK01751860"><span class="no">11</span><span><span class="t">상활 소규모 공공하수처리시설 설치공사 외 3개소 통합 건설사업관리용역</span><span class="sub">경기도 여주시 하수사업소<span class="why">업종·물품 일치</span></span></span><span class="r d ">D-12<small>10.28</small></span><span class="r">26.5억</span></div><div class="x "><div class="xi"><div><span class="k">참가 자격</span><ul><li class="ok">면허 — 충족</li><li class="ok">지역 — 제한 없음</li><li class="todo">규모 — 중소기업 확인서 요구 여부는 문서 조건에서, 회사 규모 미입력</li></ul></div><div><span class="k">추천 근거</span><ul><li>등록업종 표현이 허용업종과 중복 — 건설엔지니어링업(설계, 사업관리</li><li>공고 내용과 회사 업종 설명 유사도 71%</li></ul></div><div class="acts"><a class="bt dark" href="https://www.g2b.go.kr/link/PNPE027_01/single/?bidPbancNo=R26BK01751860&amp;bidPbancOrd=000">나라장터 원문</a><a class="bt rv" href="#">검토</a></div></div></div><div class="tr" data-no="R26BK01718563"><span class="no">12</span><span><span class="t">성남낙생 A-2BL 아파트 건설공사 시공단계 감독권한대행 등 건설사업관리용역</span><span class="sub">한국토지주택공사<span class="why">업종·물품 일치</span></span></span><span class="r d ">D-11<small>10.27</small></span><span class="r">144억</span></div><div class="x "><div class="xi"><div><span class="k">참가 자격</span><ul><li class="ok">면허 — 충족</li><li class="ok">지역 — 제한 없음</li><li class="todo">규모 — 중소기업 확인서 요구 여부는 문서 조건에서, 회사 규모 미입력</li></ul></div><div><span class="k">추천 근거</span><ul><li>등록업종 표현이 허용업종과 중복 — 건설엔지니어링업(설계, 사업관리</li><li>공고 내용과 회사 업종 설명 유사도 70%</li></ul></div><div class="acts"><a class="bt dark" href="https://www.g2b.go.kr/link/PNPE027_01/single/?bidPbancNo=R26BK01718563&amp;bidPbancOrd=001">나라장터 원문</a><a class="bt rv" href="#">검토</a></div></div></div></div></div></div></div></div><div class="foot">결과 페이지 최종 시안 — flow 의 머리 장면(계산 대기 가림막)·네 상태 + split 의 두 단 표형. 화면은 표, 메일·인쇄는 블록(report.html). 게이트는 5건 바로 뒤. 0건은 오른쪽 단만 비고 왼쪽 회사 정보가 이유. 숫자·공고명은 2026-10-16 실제 추천 결과(data/).</div></div><div class="ctl"><span data-run="full">처음 방문</span><span data-run="fast">재방문</span><span data-run="still">움직임 줄이기</span><i></i><span data-st="zero">0건</span><span data-st="err">오류·지연</span><span data-st="email">이메일 뒤</span><span data-st="reviewed">검토 뒤</span><i></i><span data-skin="panel" class="on">판</span><span data-skin="flat">평면</span></div><script type="application/json" id="cfg">{"W": 1120, "H": 392, "CY": 196, "XS": [0, 288, 576, 864], "HH": [180, 160, 150, 100], "FAN_X": 936, "FAN_SP": 150, "CONV": 44, "PRESS": 44, "CNT": [9374, 835, 372, 12]}</script><script>
 /* Engine(C, cv, L, T, mat): C=cfg, cv=그릴 캔버스, L=구간 라벨(.lab), T=전진선에 묶인 글자(.ttl)
    mat(선택) = { nb: 불투명도 버킷 수, of(i): 선 i 의 버킷, pen(g, c, b, dflt): 코호트 c·버킷 b 의 [strokeStyle, lineWidth] }
    — entry-flow 가 상태 0 의 재료(선마다 다른 불투명도)를 체에도 그대로 쓰기 위한 것. 없으면 flow.html 과 같은 그림. */
@@ -456,4 +464,6 @@ run(reduce ? 'still' : 'full');
 
 document.querySelectorAll('.sheet .tr').forEach(t => t.addEventListener('click', () => t.nextElementSibling.classList.toggle('on')));
 if (matchMedia('(max-width:720px)').matches) document.querySelector('details.side').open = false;
+document.querySelectorAll('.ctl [data-skin]').forEach(s => s.onclick = () => { document.documentElement.classList.toggle('v-panel', s.dataset.skin === 'panel');
+  document.querySelectorAll('.ctl [data-skin]').forEach(x => x.classList.toggle('on', x === s)); });
 </script></body></html>

diff --git a/docs/design/scripts/gen_results_final.py b/docs/design/scripts/gen_results_final.py
@@ -43,6 +43,14 @@ CSS = FLOW_CSS + SPLIT_CSS + r"""
 .tr::before { content:""; position:absolute; left:-16px; top:0; bottom:0; width:2px; background:#f97316; transform:scaleY(0); transform-origin:top; transition:transform .3s cubic-bezier(.3,.7,.2,1) }
 .tr.rvd::before { transform:scaleY(1) }
 @media (prefers-reduced-motion: reduce) { .res, .chain, .tr::before { transition:none !important } }
+/* 판(승우님 "밋밋하다") — 장식이 아니라 바닥과 크기. 따뜻한 회색 바닥 위에 머리·캔버스, 결과는 흰 판 하나. 먹 괘선은 머리 아래 하나만. 회사 이름 32 / 경로 숫자 28 / 마지막 12 는 34 */
+.v-panel, .v-panel body { background:#faf9f7 }
+.v-panel .head h1 { font-size:32px; letter-spacing:-0.035em } .v-panel .chain b { font-size:28px } .v-panel .chain b.acc { font-size:34px } .v-panel .chain .l { font-size:12.5px }
+.v-panel .ttl { background:#faf9f7 }
+.v-panel .res .cols { background:#fff; border:1px solid #e6e4df; border-radius:14px; padding:6px 28px 28px; margin-top:22px }
+.v-panel .side { top:0 } .v-panel .mh, .v-panel .th, .v-panel .gateline, .v-panel .side .act { border-color:#e6e4df }
+.v-panel .err { border-top-color:#e6e4df } .v-panel .ctl { background:#fff }
+@media screen and (max-width:720px){ .v-panel .head h1 { font-size:24px } .v-panel .chain b { font-size:20px } .v-panel .chain b.acc { font-size:24px } .v-panel .res .cols { padding:0 16px 20px; border-radius:12px } .v-panel .tr.rvd::before, .v-panel .tr::before { left:-10px } }
 .gateline { font-size:14.5px; padding:24px 0 } .gateline .dim { font-size:13.5px }
 .zero b { font-size:18px } .zero .dim { font-size:14px } .okline { font-size:14px }
 @media screen and (max-width:720px){ .tr .t { font-size:15px } .tr .sub { font-size:13px } .side { font-size:13.5px } }
@@ -67,6 +75,8 @@ CSS = FLOW_CSS + SPLIT_CSS + r"""
 JS_EXTRA = r"""
 document.querySelectorAll('.sheet .tr').forEach(t => t.addEventListener('click', () => t.nextElementSibling.classList.toggle('on')));
 if (matchMedia('(max-width:720px)').matches) document.querySelector('details.side').open = false;
+document.querySelectorAll('.ctl [data-skin]').forEach(s => s.onclick = () => { document.documentElement.classList.toggle('v-panel', s.dataset.skin === 'panel');
+  document.querySelectorAll('.ctl [data-skin]').forEach(x => x.classList.toggle('on', x === s)); });
 """
 
 
@@ -101,9 +111,9 @@ def page(d, prof, f, titles):
             f'<div class="foot">결과 페이지 최종 시안 — flow 의 머리 장면(계산 대기 가림막)·네 상태 + split 의 두 단 표형. 화면은 표, 메일·인쇄는 블록(report.html). '
             f'게이트는 5건 바로 뒤. 0건은 오른쪽 단만 비고 왼쪽 회사 정보가 이유. 숫자·공고명은 {TODAY.isoformat()} 실제 추천 결과(data/).</div></div>'
             f'<div class="ctl"><span data-run="full">처음 방문</span><span data-run="fast">재방문</span><span data-run="still">움직임 줄이기</span><i></i>'
-            f'<span data-st="zero">0건</span><span data-st="err">오류·지연</span><span data-st="email">이메일 뒤</span><span data-st="reviewed">검토 뒤</span></div>'
+            f'<span data-st="zero">0건</span><span data-st="err">오류·지연</span><span data-st="email">이메일 뒤</span><span data-st="reviewed">검토 뒤</span><i></i><span data-skin="panel" class="on">판</span><span data-skin="flat">평면</span></div>'
             f'<script type="application/json" id="cfg">{json.dumps(c)}</script>')
-    return (f'<!doctype html><html lang="ko"><head><meta charset="utf-8"><meta name="viewport" content="width=device-width,initial-scale=1"><title>조달핏 결과</title>{FONT}'
+    return (f'<!doctype html><html lang="ko" class="v-panel"><head><meta charset="utf-8"><meta name="viewport" content="width=device-width,initial-scale=1"><title>조달핏 결과</title>{FONT}'
             f'<style>{CSS}</style></head><body>{body}<script>{JS}{JS_EXTRA}</script></body></html>')
 
 
@@ -126,6 +136,12 @@ def check(path):
             acc: cs(document.querySelector('.chain b.acc')).color, res: cs(document.querySelector('.res')).opacity } }""")
         assert s["done"] and s["tr"] == 12 and s["sticky"] == "sticky" and s["labs"] == 4 and s["nums"] == ["9,374", "835", "372", "12"] and s["acc"] == "rgb(249, 115, 22)" and s["res"] == "1", s
         pg.screenshot(path=str(out / "_shot_final_default.png"), full_page=True)
+        k = pg.evaluate("""() => { const cs = e => getComputedStyle(e); return { bg: cs(document.body).backgroundColor, panel: cs(document.querySelector('.res .cols')).backgroundColor, r: cs(document.querySelector('.res .cols')).borderRadius } }""")
+        assert k["bg"] == "rgb(250, 249, 247)" and k["panel"] == "rgb(255, 255, 255)" and k["r"] == "14px", k
+        pg.click('.ctl [data-skin="flat"]'); pg.wait_for_timeout(200)
+        assert pg.evaluate("getComputedStyle(document.body).backgroundColor") == "rgb(255, 255, 255)"
+        pg.screenshot(path=str(out / "_shot_final_flat.png"), full_page=True)
+        pg.click('.ctl [data-skin="panel"]'); pg.wait_for_timeout(200)
         for st in ["zero", "err", "email", "reviewed"]:
             pg.click(f'.ctl [data-st="{st}"]'); pg.wait_for_timeout(300)
             if st == "zero": pg.click(".stage"); pg.wait_for_timeout(700)      # 건너뛰기 → done
